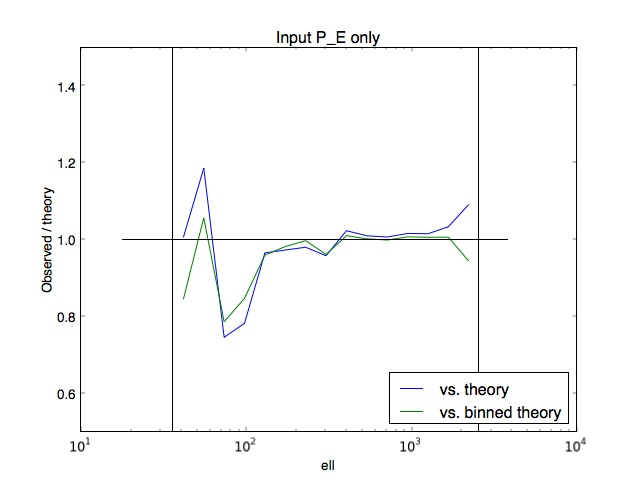
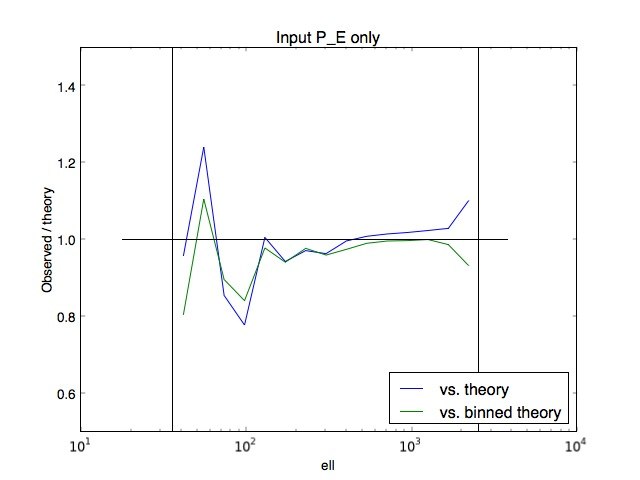
fixed minor bug from rearrangements in pse.py (#6)

Changed region(s): [[0.2812, 0.3125, 0.7188, 0.7188], [0.7188, 0.5312, 0.75, 0.5625], [0.7188, 0.4062, 0.75, 0.4375]]

diff --git a/pse.py b/pse.py
@@ -142,7 +142,8 @@ class PowerSpectrumEstimator(object):
             new_ell = np.zeros(len(self.ell)+2)
             new_ell[1:len(self.ell)+1] = self.ell
             new_ell[len(self.ell)+1] = 10.*max(self.ell)
-            C_theory = self._bin_power(C_theory_ell, ell_weight=C_theory_ell)
+            if theory_func is not None:
+                C_theory = self._bin_power(C_theory_ell, ell_weight=C_theory_ell)
 
         if weight_EE:
             new_CEE = np.zeros_like(new_ell)
